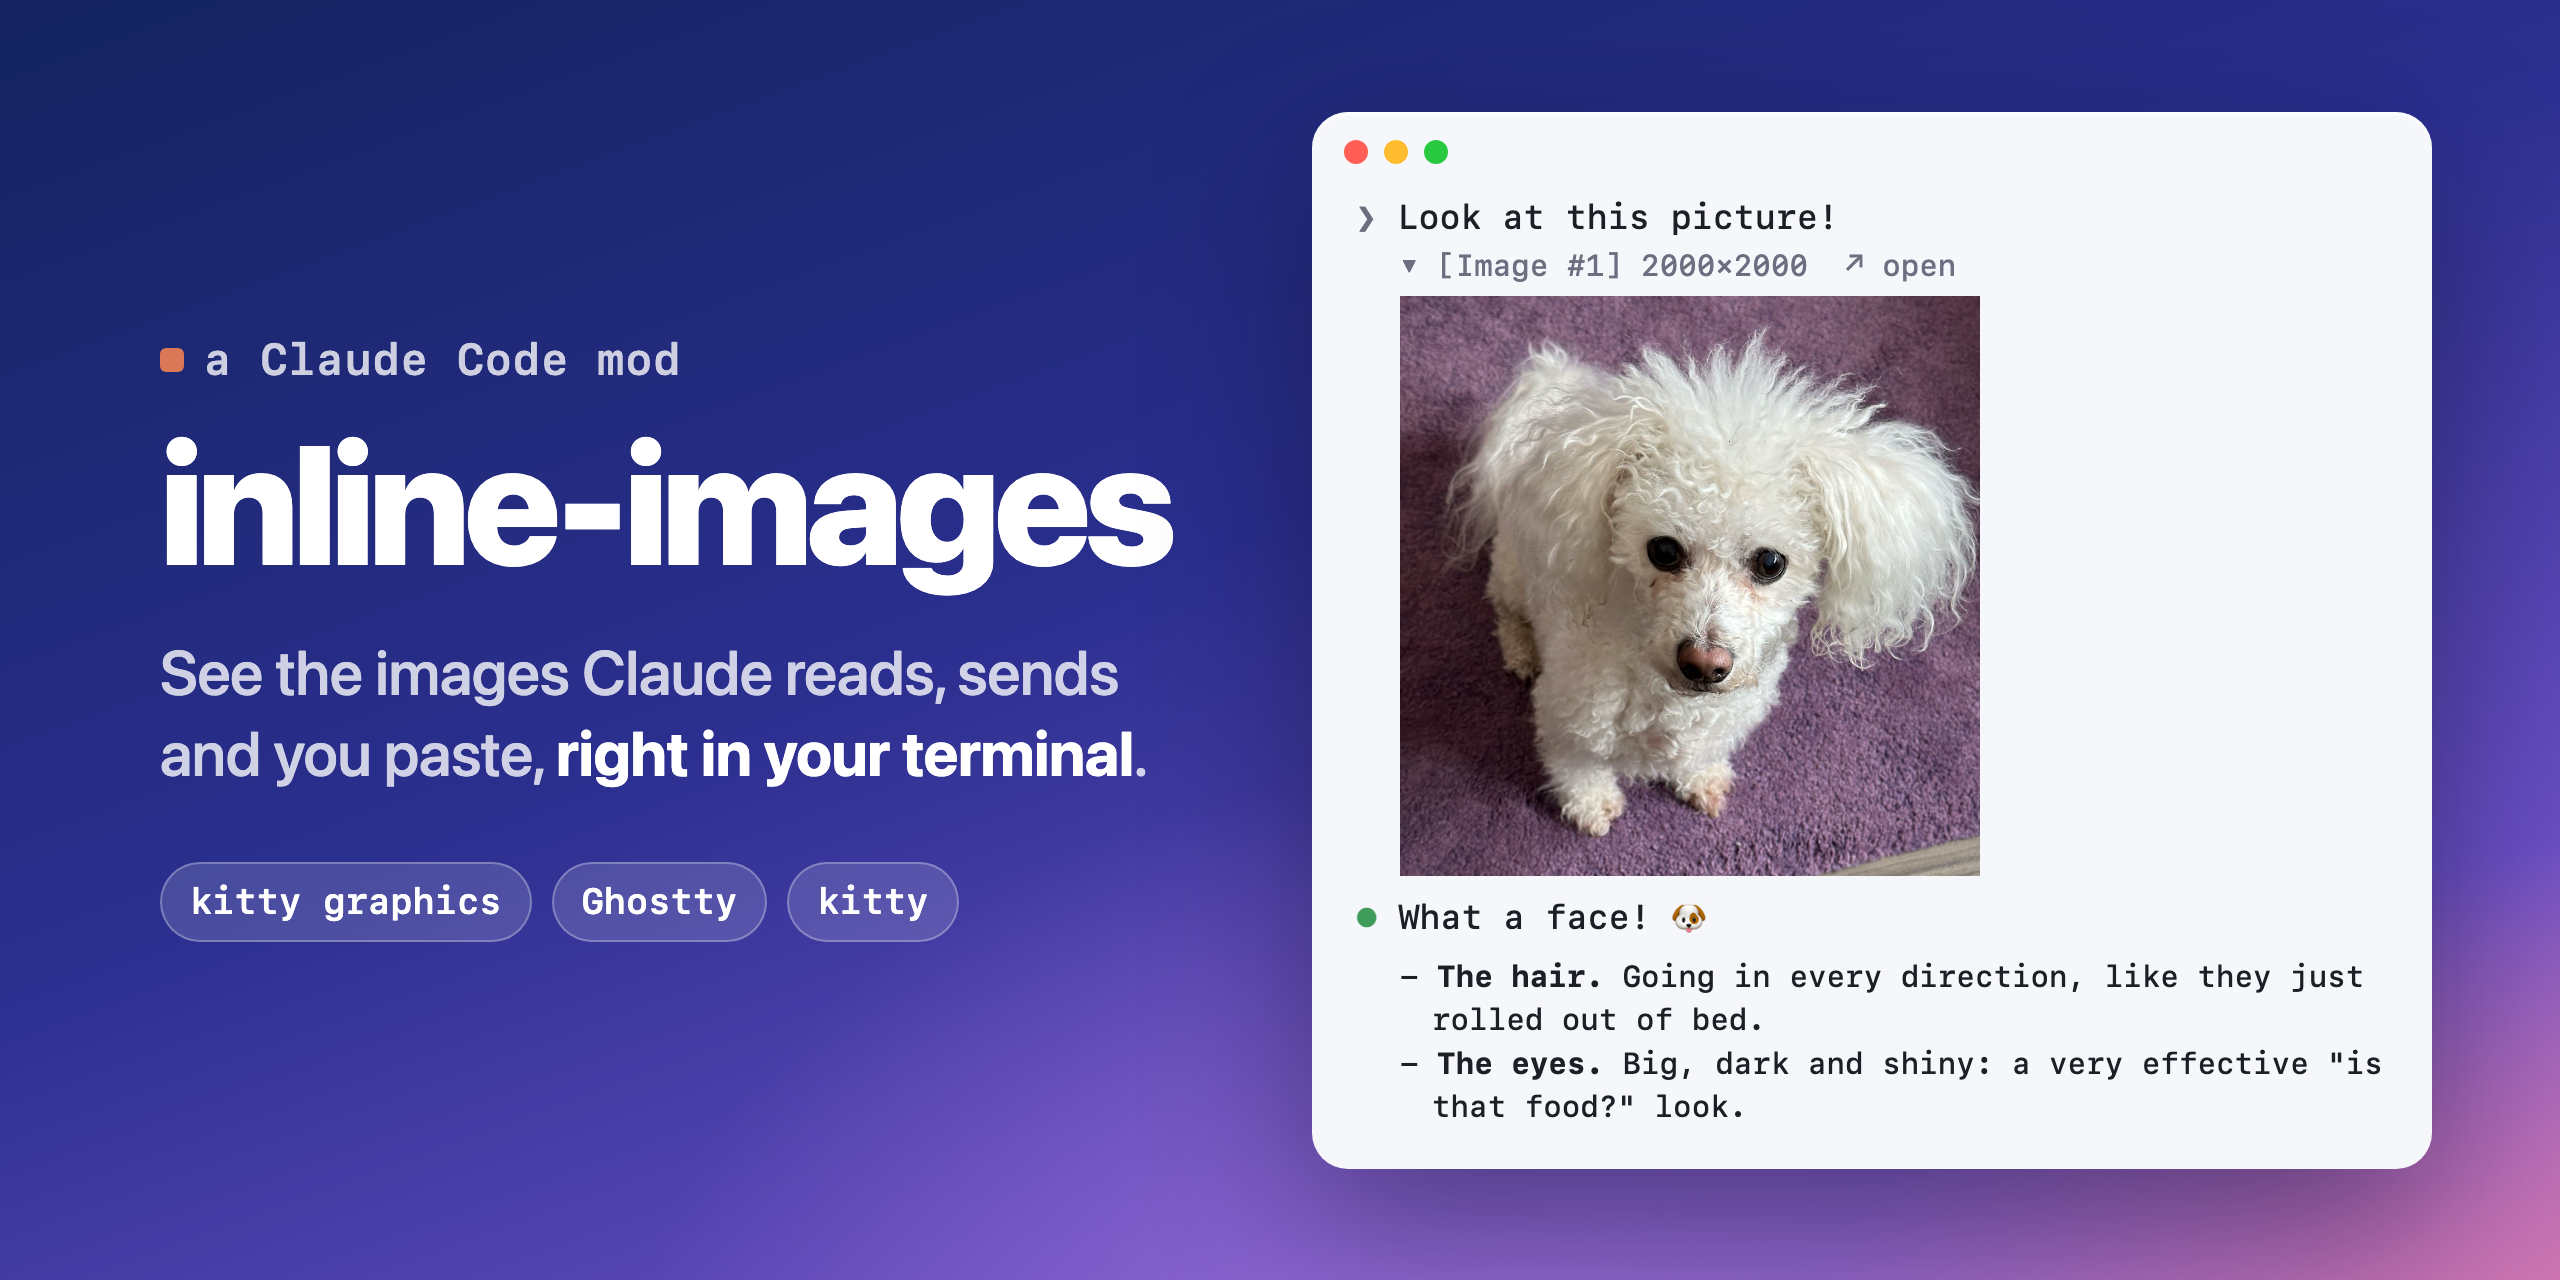
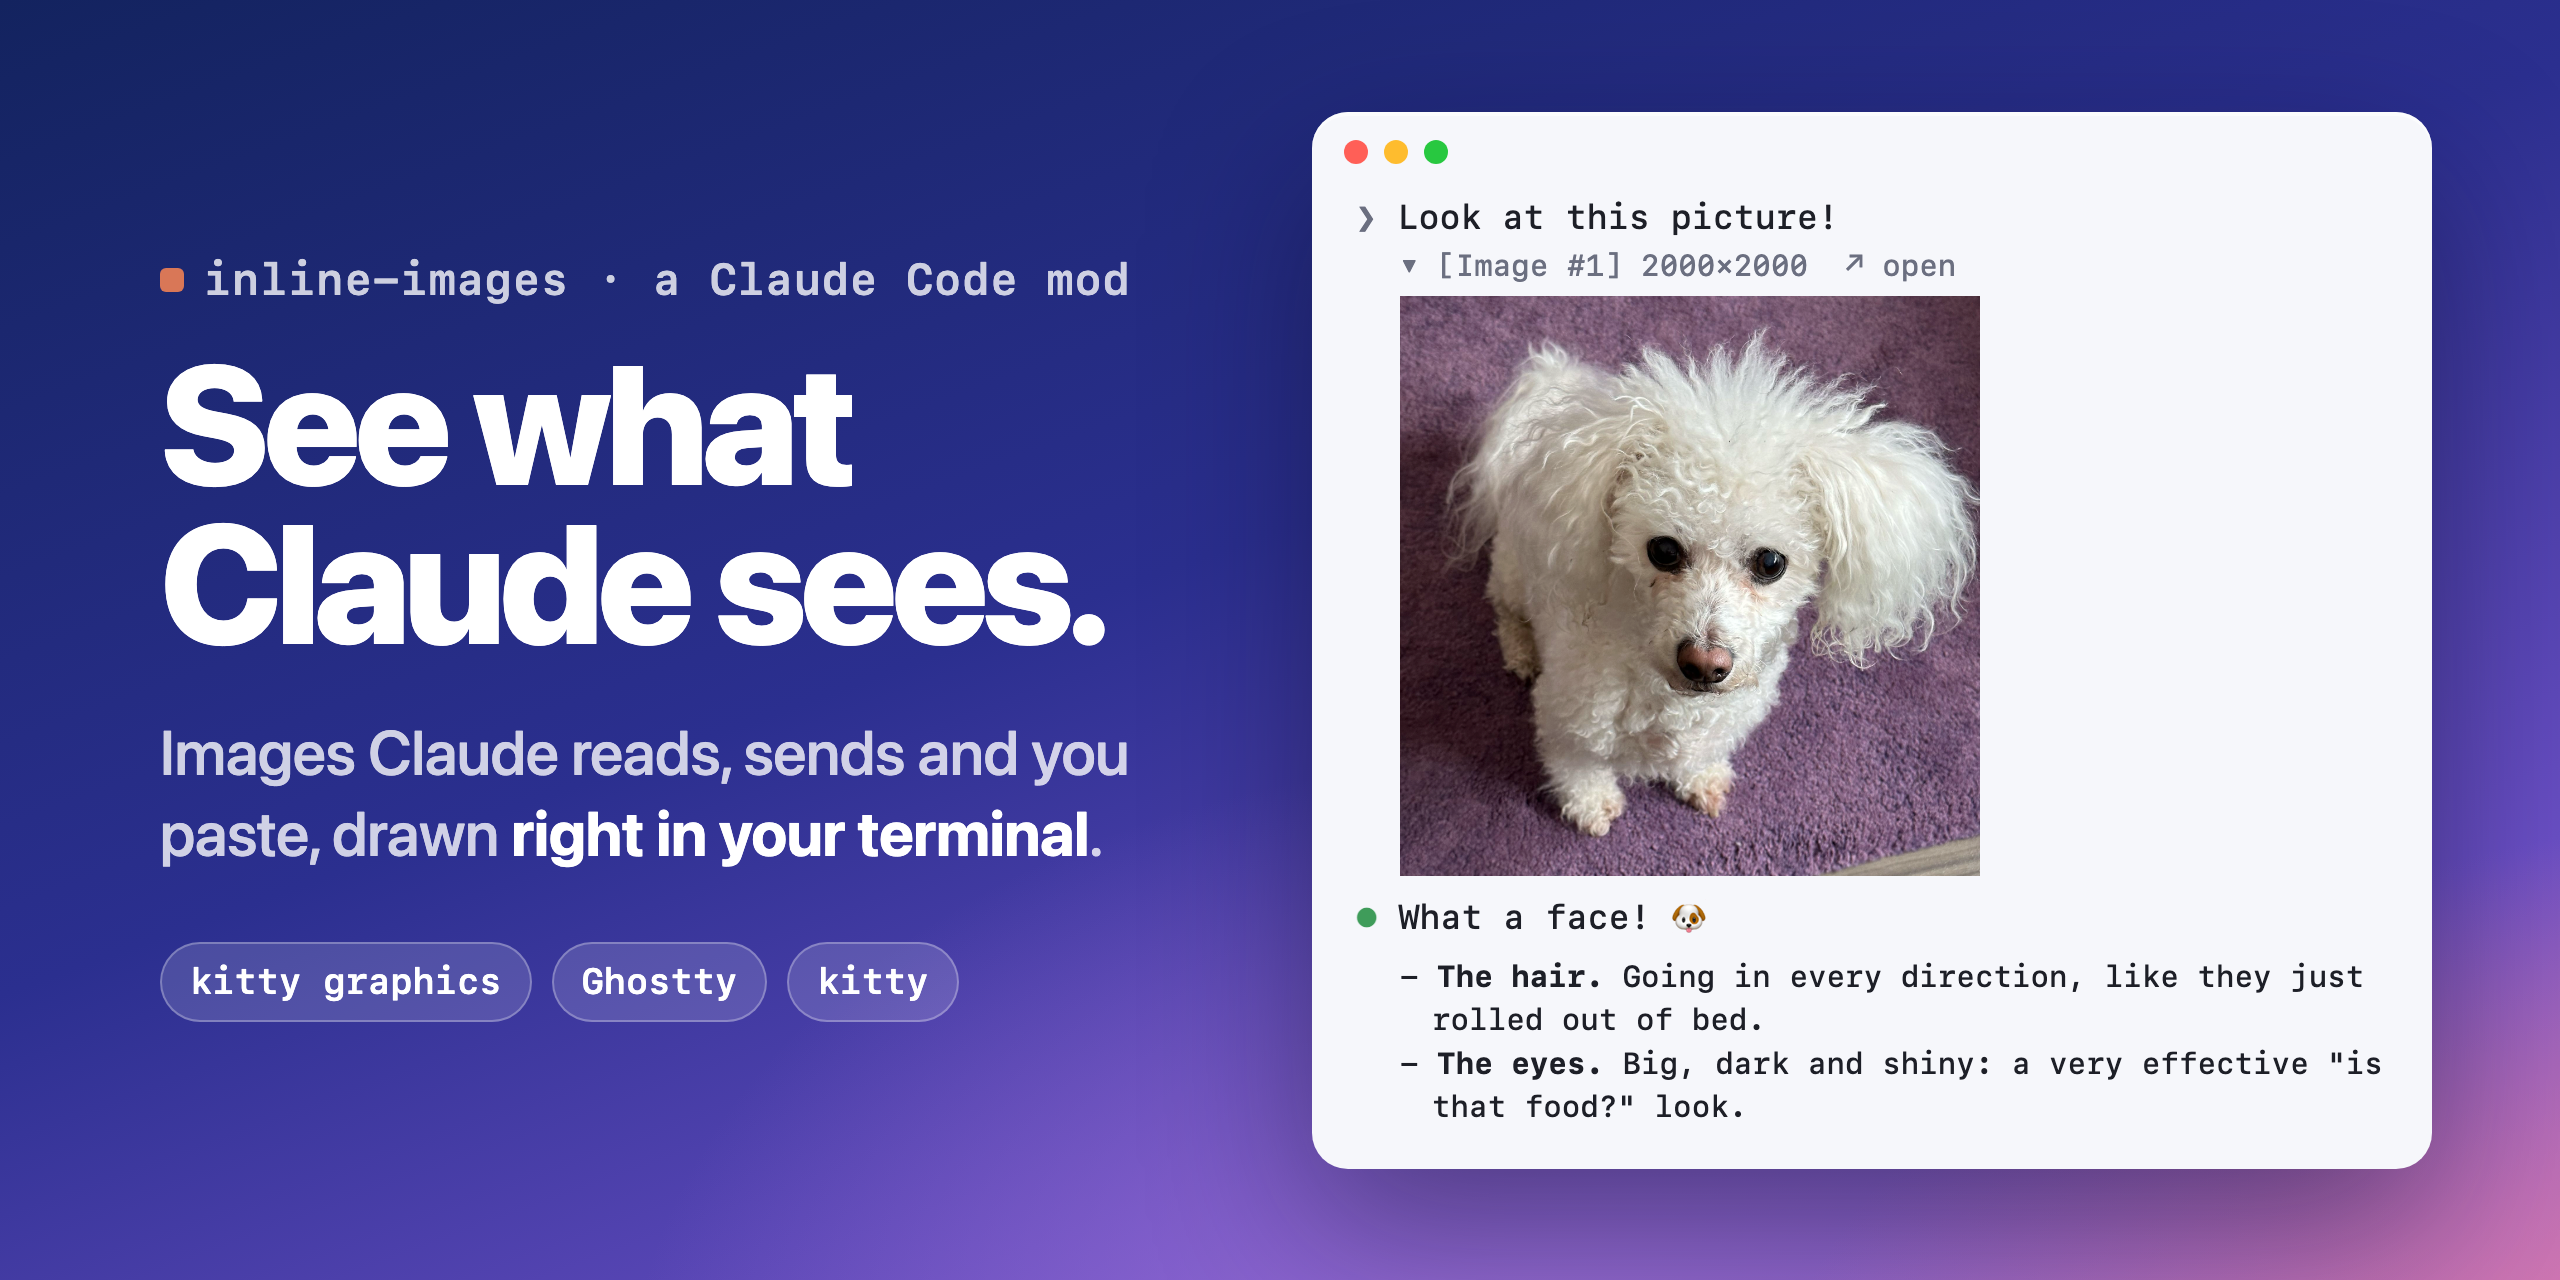
Lead the README header with "See what Claude sees."
The README already has the mod's name as its title, so the header
moves the name into its small label and leads with what it does.
The social preview keeps the name as its title.

Claude-Session: https://claude.ai/code/session_01URFzG636BMbsnfpHf4Fz7x

Changed region(s): [[0.0625, 0.1875, 0.4688, 0.8125], [0.25, 0.1875, 0.4375, 0.25]]

diff --git a/docs/art/template.html b/docs/art/template.html
@@ -90,9 +90,9 @@
 </head>
 <body>
   <div class="copy">
-    <div class="eyebrow"><span class="dot"></span>a Claude Code mod</div>
-    <h1>inline-images</h1>
-    <p class="tagline">See the images Claude reads, sends and you paste, <b>right in your terminal</b>.</p>
+    <div class="eyebrow"><span class="dot"></span><span class="name">a Claude Code mod</span></div>
+    <h1 class="title">inline-images</h1>
+    <p class="tagline" id="tagline">See the images Claude reads, sends and you paste, <b>right in your terminal</b>.</p>
     <div class="chips">
       <span class="chip">kitty graphics</span>
       <span class="chip">Ghostty</span>
@@ -115,7 +115,13 @@
   </div>
 <script>
   // template.html#header draws the README header; no hash, the social preview.
-  if (location.hash === "#header") document.body.classList.add("header")
+  // Under the README's own title the header leads with what it does instead.
+  if (location.hash === "#header") {
+    document.body.classList.add("header")
+    document.querySelector(".name").textContent = "inline-images · a Claude Code mod"
+    document.querySelector(".title").textContent = "See what Claude sees."
+    document.querySelector("#tagline").innerHTML = "Images Claude reads, sends and you paste, drawn <b>right in your terminal</b>."
+  }
 </script>
 </body>
 </html>
